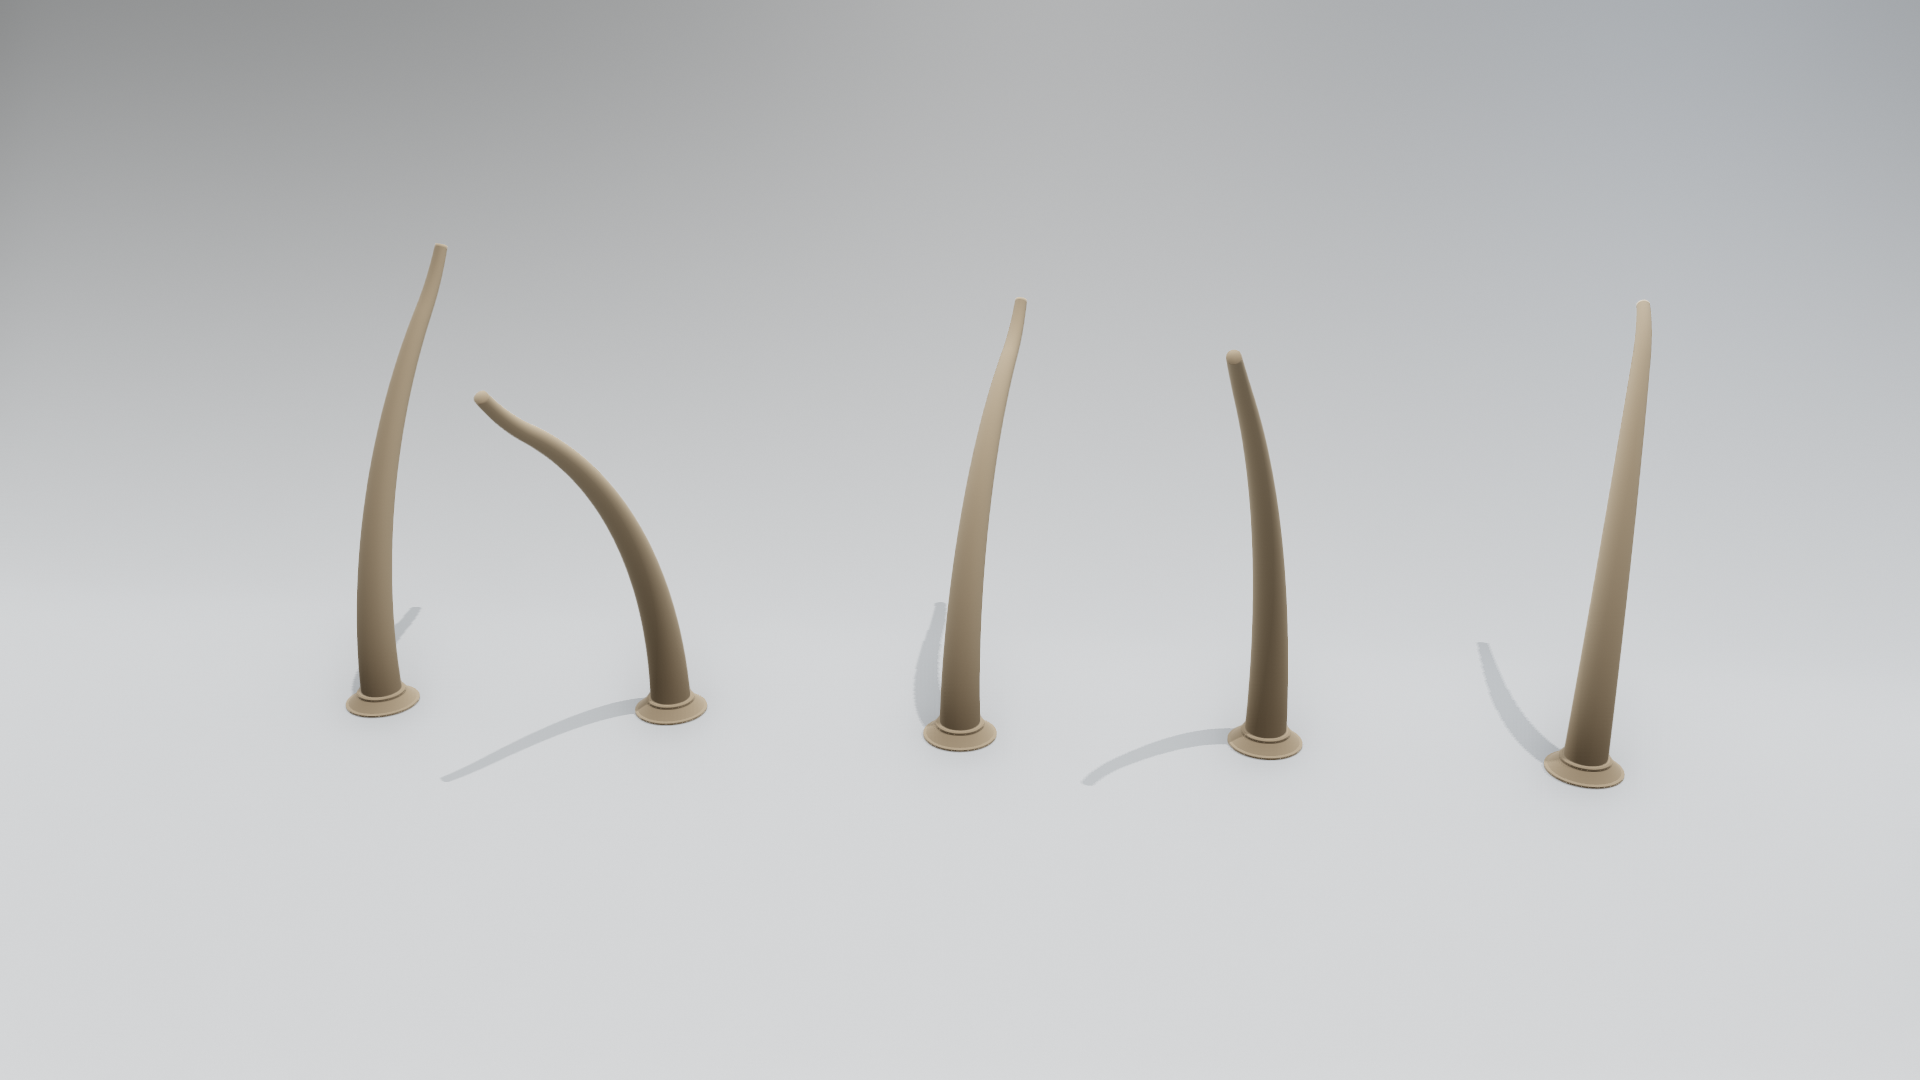
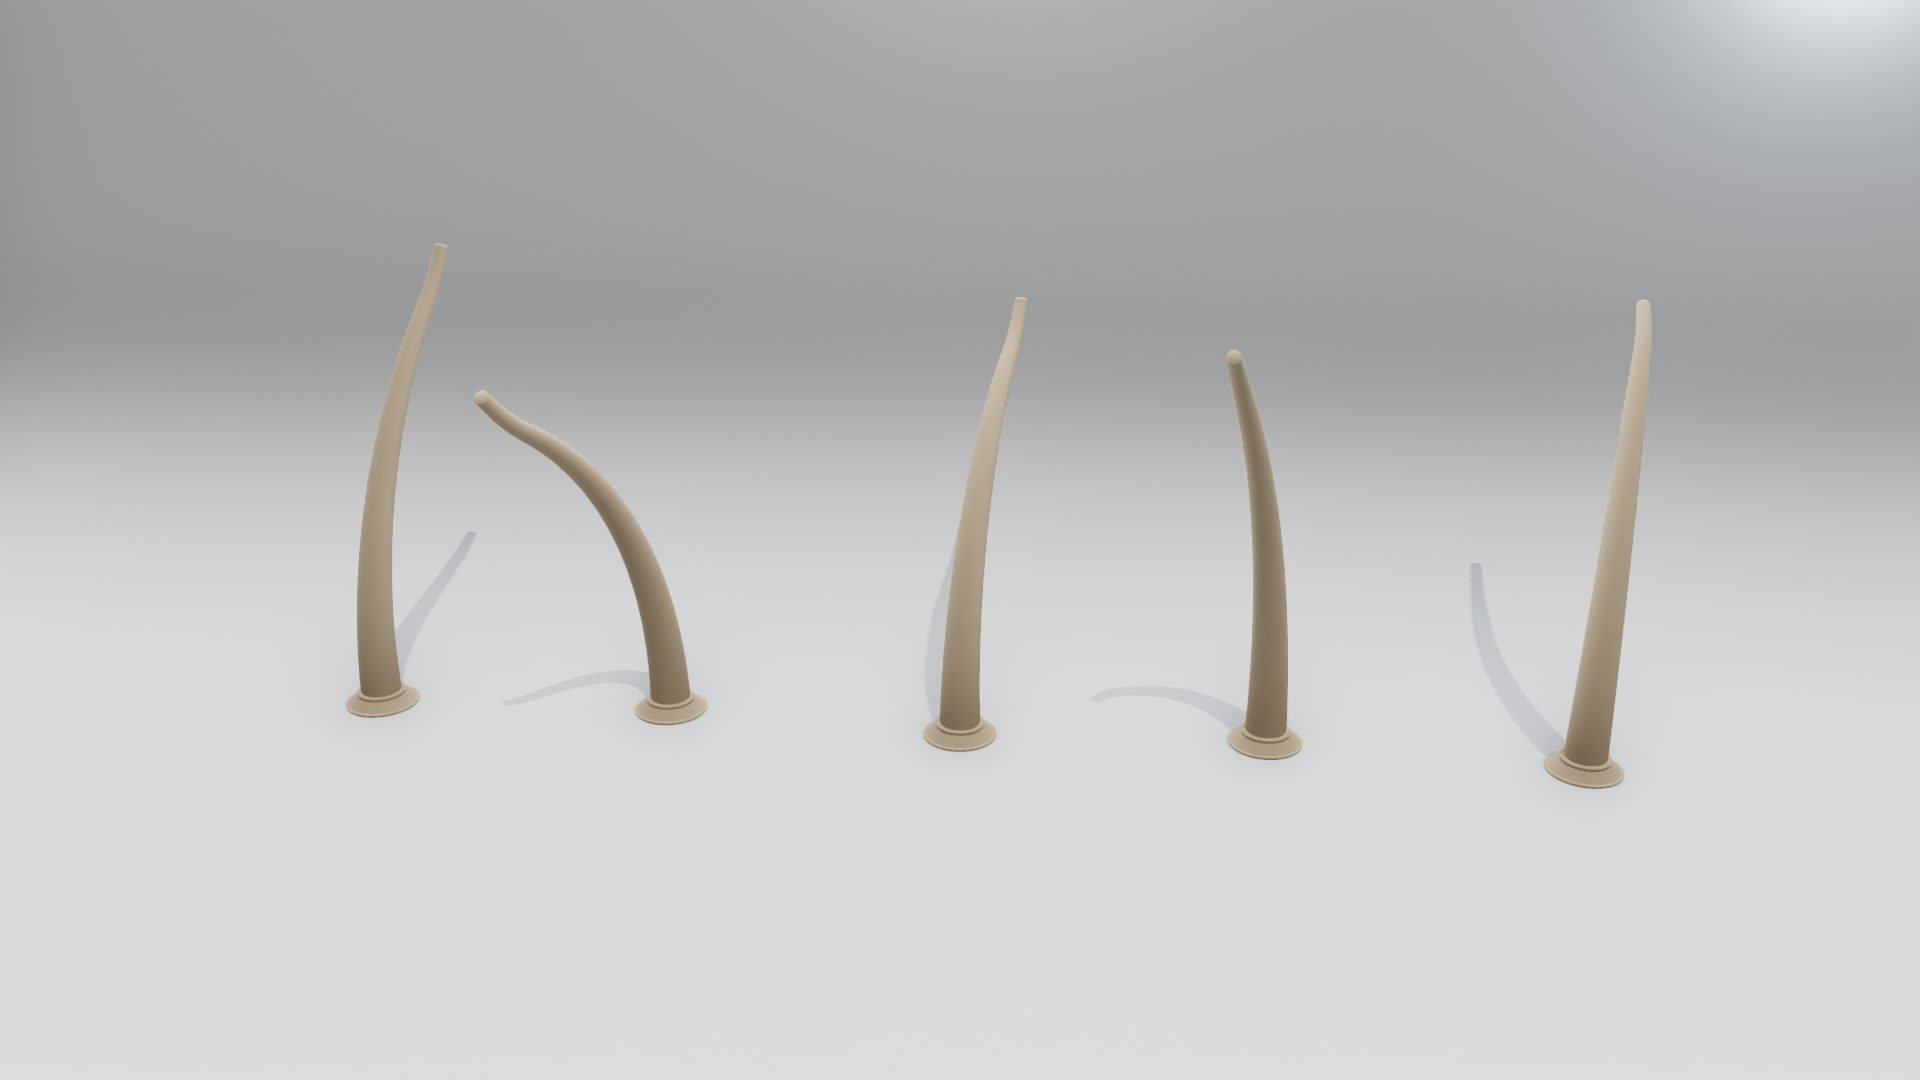
Refine studio presets and simplify Matplotlib base disks

diff --git a/src/soromox/rendering/matplotlib_renderer.py b/src/soromox/rendering/matplotlib_renderer.py
@@ -12,7 +12,7 @@ from jax import Array
 from matplotlib.animation import FuncAnimation
 from matplotlib.collections import LineCollection
 from matplotlib.widgets import Slider
-from mpl_toolkits.mplot3d.art3d import Line3DCollection
+from mpl_toolkits.mplot3d.art3d import Line3DCollection, Poly3DCollection
 
 from soromox.rendering.config.output import VideoEncodingConfig
 from soromox.rendering.video_encoding import FFmpegVideoWriter
@@ -42,6 +42,8 @@ class MatplotlibRenderer(BaseSoftRobotRenderer):
     The dimensionality is auto-detected from the robot's forward kinematics output.
     Figures use a white background and standard Matplotlib axes. Scene appearance
     presets are ignored; camera, robot colors, geometry and output settings apply.
+    Bases use a filled disk in 3D or a transverse marker in 2D, independently of
+    the mesh mount style selected for Open3D and Viser.
 
     Example:
         ```python
@@ -902,24 +904,31 @@ class MatplotlibRenderer(BaseSoftRobotRenderer):
         curves: np.ndarray,
         base_plate_color: tuple[float, float, float],
     ) -> list:
-        """Draw compact base markers at the configured base positions."""
+        """Draw schematic disks in 3D and transverse base markers in 2D.
+
+        Args:
+            ax: Matplotlib axes receiving the markers.
+            curves: Backbone positions, shape (robots, points, 2 or 3), in metres.
+            base_plate_color: Base marker sRGB color.
+
+        Returns:
+            Mutable artists, one per robot. Disk diameter is 8% of robot length
+            (at least 1 mm); detailed mesh mount styles are ignored.
+        """
         artists = []
         if curves.size == 0:
             return artists
         dim = int(curves.shape[-1])
         axis = self._base_tangent_axis(dim=dim)
-        marker_len = max(0.04 * self.L_max, 1e-3)
+        marker_len = max((0.08 if dim == 3 else 0.04) * self.L_max, 1e-3)
         for curve in curves:
             base = np.asarray(curve[0], dtype=np.float64)
             marker = self._base_plate_marker_points(base, axis, marker_len, dim)
             if dim == 3:
-                (artist,) = ax.plot(
-                    marker[:, 0],
-                    marker[:, 1],
-                    marker[:, 2],
-                    color=base_plate_color,
-                    linewidth=max(self.line_width, 2.0),
+                artist = Poly3DCollection(
+                    [marker[:-1]], facecolors=[base_plate_color], edgecolors="none"
                 )
+                ax.add_collection3d(artist)
             else:
                 (artist,) = ax.plot(
                     marker[:, 0],
@@ -931,21 +940,26 @@ class MatplotlibRenderer(BaseSoftRobotRenderer):
         return artists
 
     def _update_base_markers(self, artists: list, curves: np.ndarray) -> None:
-        """Update animated Matplotlib base markers."""
+        """Move schematic base markers to the current robot positions.
+
+        Args:
+            artists: Base artists returned by ``_plot_base_markers``.
+            curves: Current backbone positions, shape (robots, points, 2 or 3),
+                in metres.
+
+        Returns:
+            None. Updates disk vertices or planar marker endpoints in place.
+        """
         if not artists:
             return
         dim = int(curves.shape[-1])
         axis = self._base_tangent_axis(dim=dim)
-        marker_len = max(0.04 * self.L_max, 1e-3)
+        marker_len = max((0.08 if dim == 3 else 0.04) * self.L_max, 1e-3)
         for artist, curve in zip(artists, curves):
             base = np.asarray(curve[0], dtype=np.float64)
             marker = self._base_plate_marker_points(base, axis, marker_len, dim)
             if dim == 3:
-                artist.set_data(
-                    marker[:, 0],
-                    marker[:, 1],
-                )
-                artist.set_3d_properties(marker[:, 2])
+                artist.set_verts([marker[:-1]])
             else:
                 artist.set_data(
                     marker[:, 0],

diff --git a/tests/rendering/test_renderer_config.py b/tests/rendering/test_renderer_config.py
@@ -499,7 +499,7 @@ def test_backdrop_rejects_invalid_eased_dimensions(kwargs):
         BackdropConfig(**kwargs)
 
 
-def test_neutral_studio_and_clay_have_independent_lighting_and_backdrops():
+def test_clay_shares_studio_settings_with_independent_configuration_objects():
     neutral, clay = SceneConfig.studio(), RendererConfig.clay().scene
     assert neutral.backdrop.vertical_radius == 0.23
     assert neutral.backdrop.curvature_easing == 0.8
@@ -507,7 +507,33 @@ def test_neutral_studio_and_clay_have_independent_lighting_and_backdrops():
     assert_allclose(neutral.lights[0].direction, [-0.25, 0.55, -1])
     assert neutral.lights[1].intensity_candela == pytest.approx(212500 / (4 * np.pi))
     assert neutral.lights[2].intensity_candela == pytest.approx(112500 / (4 * np.pi))
-    assert clay.backdrop.radius == 0.7
-    assert clay.backdrop.vertical_radius is None
-    assert clay.ambient.strength == 0.8
-    assert clay.lights[1].intensity_candela == pytest.approx(250000 / (4 * np.pi))
+    assert clay.backdrop == neutral.backdrop
+    assert clay.ambient == neutral.ambient
+    assert clay.lights[:3] == neutral.lights
+    assert len(clay.lights) == 4
+    assert clay.lights[3].intensity_candela == pytest.approx(100000 / (4 * np.pi))
+    assert clay.material.roughness == 0.9
+    clay.backdrop.radius = 0.6
+    clay.lights[0].illuminance_lux = 10
+    assert neutral.backdrop.radius == 0.4
+    assert neutral.lights[0].illuminance_lux == 70000
+
+
+@pytest.mark.parametrize(
+    "style,key,ambient,front,rear,direction",
+    [
+        ("bright", 85000, 1.2, 400000, 250000, (-0.25, 0.15, -1)),
+        ("dark", 100000, 0.4, 300000, 250000, (-0.25, 0.9, -0.55)),
+    ],
+)
+def test_studio_variants_share_backdrop_and_retain_distinct_lighting(
+    style, key, ambient, front, rear, direction
+):
+    """Changing the studio sweep preserves bright and dark lighting identities."""
+    scene = SceneConfig.studio(style)
+    assert scene.backdrop == SceneConfig.studio().backdrop
+    assert scene.ambient.strength == ambient
+    assert scene.lights[0].illuminance_lux == key
+    assert_allclose(scene.lights[0].direction, direction)
+    assert scene.lights[1].intensity_candela == pytest.approx(front / (4 * np.pi))
+    assert scene.lights[2].intensity_candela == pytest.approx(rear / (4 * np.pi))

diff --git a/src/soromox/rendering/config/renderer.py b/src/soromox/rendering/config/renderer.py
@@ -16,11 +16,6 @@ from soromox.rendering.config.colors import (
 )
 from soromox.rendering.config.output import RenderOutputConfig
 from soromox.rendering.config.scene import (
-    AmbientLightConfig,
-    BackdropConfig,
-    DirectionalLightConfig,
-    GroundPlaneConfig,
-    MaterialConfig,
     PointLightConfig,
     SceneConfig,
 )
@@ -142,34 +137,14 @@ class RendererConfig:
         if not np.isfinite(scene_extent) or scene_extent <= 0:
             raise ValueError("scene_extent must be finite and positive")
         scale = scene_extent / 1.2
-        # Clay owns its lighting and scenery independently of the neutral studio.
-        scene = SceneConfig(
-            background=(0.58, 0.58, 0.58),
-            ground=GroundPlaneConfig(color=(0.58, 0.58, 0.58), grid=False),
-            backdrop=BackdropConfig(enabled=True, radius=0.7, wall_offset=0.15),
-            ambient=AmbientLightConfig(strength=0.8),
-            material=MaterialConfig(roughness=0.9),
-            shadows=True,
-            ambient_occlusion=True,
-            lights=(
-                DirectionalLightConfig(illuminance_lux=70000, color=(1.0, 1.0, 1.0)),
-                PointLightConfig.from_lumens(
-                    250000 * scale**2,
-                    position=tuple(np.array([0.0, -0.8, 0.8]) * scale),
-                    range_m=6.0 * scale,
-                ),
-                PointLightConfig.from_lumens(
-                    150000 * scale**2,
-                    position=tuple(np.array([0.0, 0.4, 0.75]) * scale),
-                    range_m=6.0 * scale,
-                    color=(1.0, 1.0, 1.0),
-                ),
-                PointLightConfig.from_lumens(
-                    100000 * scale**2,
-                    position=tuple(np.array([0.7, 0.4, 0.6]) * scale),
-                    range_m=6.0 * scale,
-                    color=(0.85, 0.92, 1.0),
-                ),
+        scene = SceneConfig.studio(scene_extent=scene_extent)
+        scene.material.roughness = 0.9
+        scene.lights += (
+            PointLightConfig.from_lumens(
+                100000 * scale**2,
+                position=tuple(np.array([0.7, 0.4, 0.6]) * scale),
+                range_m=6.0 * scale,
+                color=(0.85, 0.92, 1.0),
             ),
         )
         colors = RendererColorConfig(

diff --git a/tests/rendering/test_matplotlib_renderer.py b/tests/rendering/test_matplotlib_renderer.py
@@ -269,8 +269,10 @@ def test_slider_ignores_studio_background_and_floor(monkeypatch):
         fig = plt.gcf()
         assert_allclose(fig.get_facecolor(), [1, 1, 1, 1])
         assert_allclose(fig.axes[0].get_facecolor(), [1, 1, 1, 1])
-        assert not any(
-            isinstance(item, Poly3DCollection) for item in fig.axes[0].collections
+        # One filled base disk, with no ground or backdrop surfaces.
+        assert (
+            sum(isinstance(item, Poly3DCollection) for item in fig.axes[0].collections)
+            == 1
         )
         inspected.append(True)
 
@@ -278,3 +280,36 @@ def test_slider_ignores_studio_background_and_floor(monkeypatch):
     with pytest.warns(UserWarning, match="white background"):
         renderer.animate(jnp.array([0.0, 0.1]), jnp.empty((2, 0)), mode="slider")
     assert inspected == [True]
+
+
+@pytest.mark.parametrize(
+    "style", ["disk", "beveled_disk", "truncated_cone", "flared_collar"]
+)
+def test_spatial_base_is_a_filled_disk_and_updates_in_place(style):
+    """Detailed mount styles all use a simple disk, including during playback."""
+    import matplotlib.pyplot as plt
+    from mpl_toolkits.mplot3d.art3d import Poly3DCollection
+
+    renderer = MatplotlibRenderer(
+        DummySpatialRobot(jnp.array([0.0, 0.0, 0.0, 1.0, 0.0, 0.0, 0.0])),
+        config=RendererConfig(geometry=GeometryConfig(base_plate_style=style)),
+    )
+    fig = plt.figure()
+    try:
+        ax = fig.add_subplot(projection="3d")
+        curves = np.array([[[0.0, 0.0, 0.0], [1.0, 0.0, 0.0]]])
+        artists = renderer._plot_base_markers(ax, curves, (0.2, 0.2, 0.2))
+        assert len(artists) == 1
+        disk = artists[0]
+        assert isinstance(disk, Poly3DCollection)
+        assert disk.get_edgecolor().size == 0
+        captured = []
+        disk.set_verts = lambda vertices: captured.append(np.asarray(vertices))
+        renderer._update_base_markers(artists, curves + [0.0, 2.0, 3.0])
+        points = captured[0][0]
+        assert points.shape == (64, 3)
+        assert_allclose(points.mean(axis=0), [0.0, 2.0, 3.0], atol=1e-12)
+        assert_allclose(np.linalg.norm(points - [0.0, 2.0, 3.0], axis=1), 0.04)
+        assert_allclose(points[:, 0], 0.0)
+    finally:
+        plt.close(fig)

diff --git a/src/soromox/rendering/config/scene.py b/src/soromox/rendering/config/scene.py
@@ -468,9 +468,7 @@ class SceneConfig:
                     vertical_radius=0.23,
                     wall_offset=0.02,
                     curvature_easing=0.80,
-                )
-                if style == "neutral"
-                else BackdropConfig(enabled=True, wall_offset=0.15, radius=0.7),
+                ),
                 ambient=AmbientLightConfig(strength=ambient),
                 lights=tuple(lights),
                 shadows=True,

diff --git a/docs/api/rendering/presets.md b/docs/api/rendering/presets.md
@@ -68,7 +68,7 @@ A low sweep with gradually changing curvature creates a soft, visible floor-to-w
 
 </div>
 
-Bright backgrounds and subtle grounding shadows follow the stool-and-blocks reference. Both backgrounds are neutral, with a broader floor-to-wall brightness gradient in Open3D. Robot highlights retain color and shape. The reference's reflective floor is intentionally outside this matte preset.
+A low curved sweep adds subtle floor-to-wall separation to the bright background; gentle grounding shadows follow the stool-and-blocks reference. Both backgrounds are neutral, with a broader floor-to-wall brightness gradient in Open3D. Robot highlights retain color and shape. The reference's reflective floor is intentionally outside this matte preset.
 
 ## Dark
 
@@ -84,7 +84,7 @@ Bright backgrounds and subtle grounding shadows follow the stool-and-blocks refe
 
 </div>
 
-A stronger frontal key and fill illuminate the colored tentacle surfaces against the charcoal sweep; a cool rim separates their edges. Both keep the colored tentacles readable; Open3D has softer surface gradients and more visible cast shadows. The lower key angle casts longer shadows toward the backdrop. The reference's glossy, concentrated highlight strips are broader and weaker on these matte robots.
+A low charcoal sweep provides floor-to-wall separation. A frontal key and fill illuminate the colored tentacle surfaces; a cool rim separates their edges. Both keep the colored tentacles readable; Open3D has softer surface gradients and more visible cast shadows. The lower key angle casts longer shadows toward the backdrop. The reference's glossy, concentrated highlight strips are broader and weaker on these matte robots.
 
 ## Flat
 
@@ -116,7 +116,7 @@ Both renders remove surface-light gradients, shadows and floor context, as in th
 
 </div>
 
-Backbones and mounts share one warm-grey matte material. Directional gradients and contact shadows describe form, following the clay character reference. Open3D has stronger contact definition; Viser looks smoother and lighter. Skin scattering, fine sculpted detail and compositing are not simulated.
+Backbones and mounts share one warm-grey matte material. The low sweep uses neutral studio lighting and an additional cool rim light, which also creates a brighter patch on the upper-right backdrop. Directional gradients and contact shadows describe form, following the clay character reference. Open3D has stronger contact definition; Viser looks smoother and lighter. Skin scattering, fine sculpted detail and compositing are not simulated.
 
 All comparisons concern visual properties of different objects, not pixel similarity. Modern Open3D smooths matching link contours to avoid artificial shading seams; real changes in cross-section remain visible. Directional shadow maps can show bias and edge artifacts; the references often use area lights or more elaborate material and compositing treatments.
 

diff --git a/docs/api/rendering/configuration.md b/docs/api/rendering/configuration.md
@@ -70,7 +70,8 @@ Open3D and Viser support four circular mounting shapes through
 `config.geometry.base_plate_style`: `"disk"`, `"beveled_disk"`,
 `"truncated_cone"` and `"flared_collar"` (the default). The flared collar has
 a lower flange, tapered body and upper rim; the beveled disk provides a smaller
-visual accent. Matplotlib and OpenCV use their existing base markers.
+visual accent. Matplotlib uses a simple filled disk in 3D and a transverse marker in 2D,
+independently of the selected mount style. OpenCV uses its planar base marker.
 
 `base_plate_radius_scale` multiplies the proximal cross-section's maximum radial
 extent: the circle radius, larger ellipse semi-axis, or rectangle half-diagonal.
@@ -122,7 +123,7 @@ initial bounds. A curved backdrop replaces the separate flat floor and grid.
 flattens into the floor and wall). `wall_offset` places the start of the bend
 behind the scene center. These dimensions are multiples of the fitted scene extent.
 
-The neutral studio uses a lower, softly shaded transition:
+The studio and clay presets use a low, gradually curved transition:
 
 ```python
 scene = SceneConfig.studio()
@@ -133,8 +134,9 @@ scene.backdrop.curvature_easing = 0.80
 ```
 
 Its key light illuminates both the floor and wall, with ambient illumination and
-point fills reducing the contrast across the bend. Bright, dark and clay use
-circular backdrop curves and their own lighting settings.
+point fills reducing the contrast across the bend. Bright and dark retain their
+distinct lighting settings. Clay uses neutral studio lighting with an additional
+cool rim light and a uniform matte robot material.
 
 ## Camera configuration
 

diff --git a/examples/rendering/README.md b/examples/rendering/README.md
@@ -54,11 +54,12 @@ The technical preset displays a world grid without a filled ground slab. Set
 `config.scene.ground.surface = True` to add the surface. Grid spacing is in
 metres, with major lines every five cells by default. Studio presets use a curved
 backdrop, one directional key and point-light fills. Viser uses hemisphere
-illumination to approximate Open3D's environment lighting. The neutral studio
-uses a low, eased sweep (`radius=0.40`, `vertical_radius=0.23`,
-`wall_offset=0.02`, `curvature_easing=0.80`) with lighting that keeps the
-floor-to-wall transition soft and visible. Both example commands resolve these
-settings through `SceneConfig.studio()`; no manual scene setup is needed.
+illumination to approximate Open3D's environment lighting. The studio and clay presets
+use a low, eased sweep (`radius=0.40`, `vertical_radius=0.23`,
+`wall_offset=0.02`, `curvature_easing=0.80`). Bright and dark retain their
+distinct lighting; clay uses neutral lighting with an extra cool rim light.
+Both example commands resolve the selected preset settings through the shared
+configuration factories; no manual scene setup is needed.
 
 Static Viser capture supplies the camera pose explicitly and waits for stable
 images while the browser loads its meshes. The patched Open3D build uses Filmic

diff --git a/docs/api/rendering/renderers.md b/docs/api/rendering/renderers.md
@@ -25,7 +25,7 @@ BaseSoftRobotRenderer (abstract base)
 | --- | --- | --- |
 | `BaseSoftRobotRenderer` | Backbone sampling, cached forward kinematics, batched layouts, color resolution, and the common rendering interface | All renderers |
 | Robot base | `fixed_base_pose` mounts fixed robots; floating renderers follow the base coordinates in each runtime configuration | All renderers |
-| Base plate | `config.geometry.base_plate_style`, `base_plate_radius_scale` and `base_plate_thickness` configure the mount | Open3D and Viser; Matplotlib draws a lightweight base marker |
+| Base plate | `config.geometry.base_plate_style`, `base_plate_radius_scale` and `base_plate_thickness` configure the mount | Open3D and Viser; Matplotlib draws a filled disk in 3D or a transverse marker in 2D |
 | Ground plane | `config.scene.ground` configures a world floor or base-aligned planes, including colors, size, grid and opacity | All renderers, with backend approximations |
 
 ### Cross-Section Geometry
